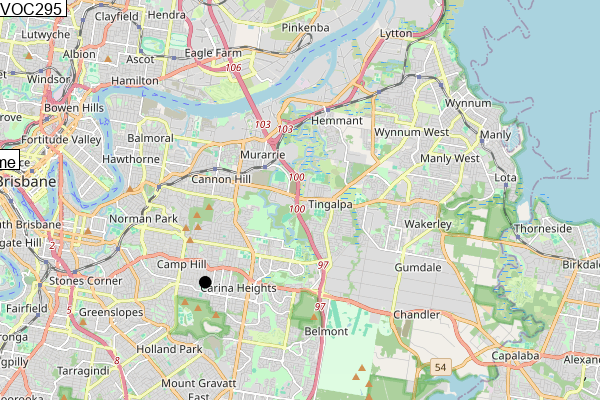
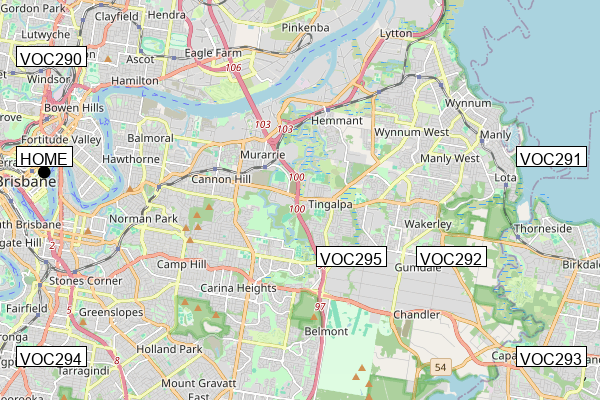
Added HOME Label

diff --git a/src/Services/map.py b/src/Services/map.py
@@ -8,7 +8,7 @@ def generateMap (flights):
     m = StaticMap(600, 400)
 
     # Add a marker for home (longitude FIRST then latitude)
-    marker = CircleMarker((153.085000, -27.500000), 'black', 12)  # Tingalpa
+    marker = CircleMarker((153.030000, -27.466500), 'black', 12)  # Tingalpa
     m.add_marker(marker)
     
 
@@ -27,9 +27,9 @@ def generateMap (flights):
 
     #draw HOME Box
     #set name and pixel position
-    text = "Home"
-    text_x = -27.44
-    text_y = 153.0
+    text = "HOME"
+    text_x = 20
+    text_y = 150
 
         # Get text bounding box
     bbox = draw.textbbox((text_x, text_y), text, font=font)

diff --git a/src/main.py b/src/main.py
@@ -63,9 +63,9 @@ def main():
         #     ]
         #     print(flights)
         
-        # for plane in flights:
-        #     #convert lon/lat to pixelcoords
-        #     plane[3], plane[4] = plotCoords(lat = plane[1], lon = plane[2])
+        for plane in flights:
+            #convert lon/lat to pixelcoords
+            plane[3], plane[4] = plotCoords(lat = plane[1], lon = plane[2])
 
         # Compare callsigns and positions instead of full lists
         current_callsigns = {plane[0]: (plane[1], plane[2]) for plane in flights}
